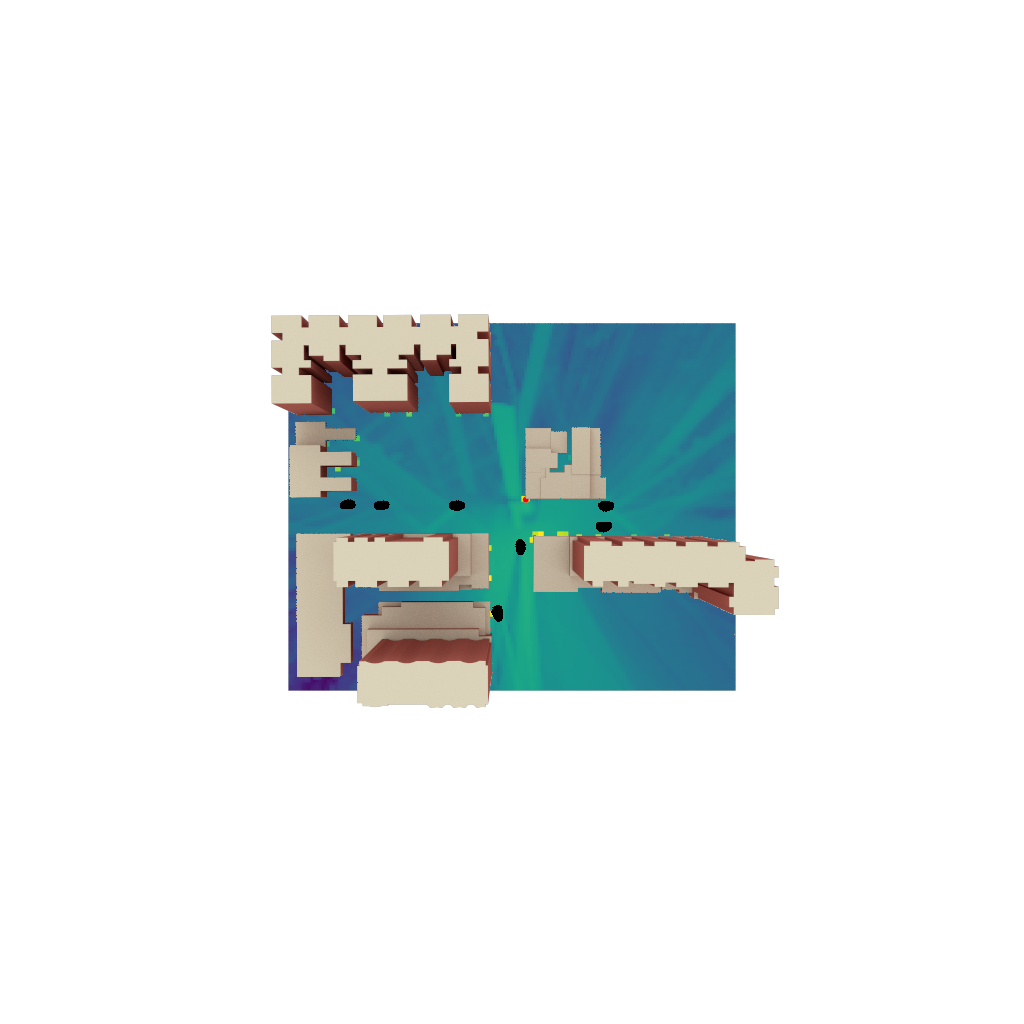
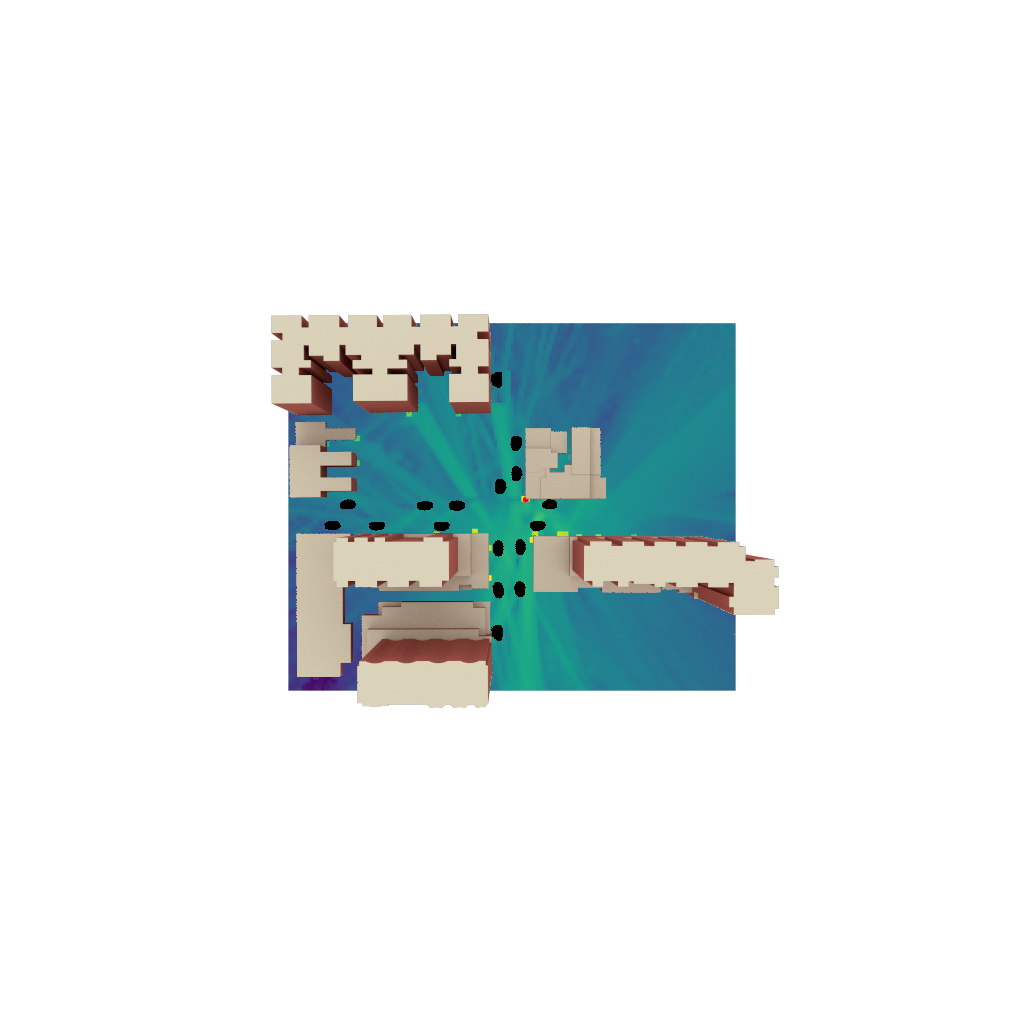
backend

diff --git a/data_gain.py b/data_gain.py
@@ -107,7 +107,7 @@ for idx in range(1,num_scenes+1):
                     rm_vmin=-140)
         
         # scene = util.cars_movement(scene, displacement_vec)
-        scene = util.cars_desity_change(scene, radio=0.8)
+        scene = util.cars_desity_change(scene, radio=0.5)
         # scene = util.tx_movement(scene, move_vec=[10,0,0])
         
         
